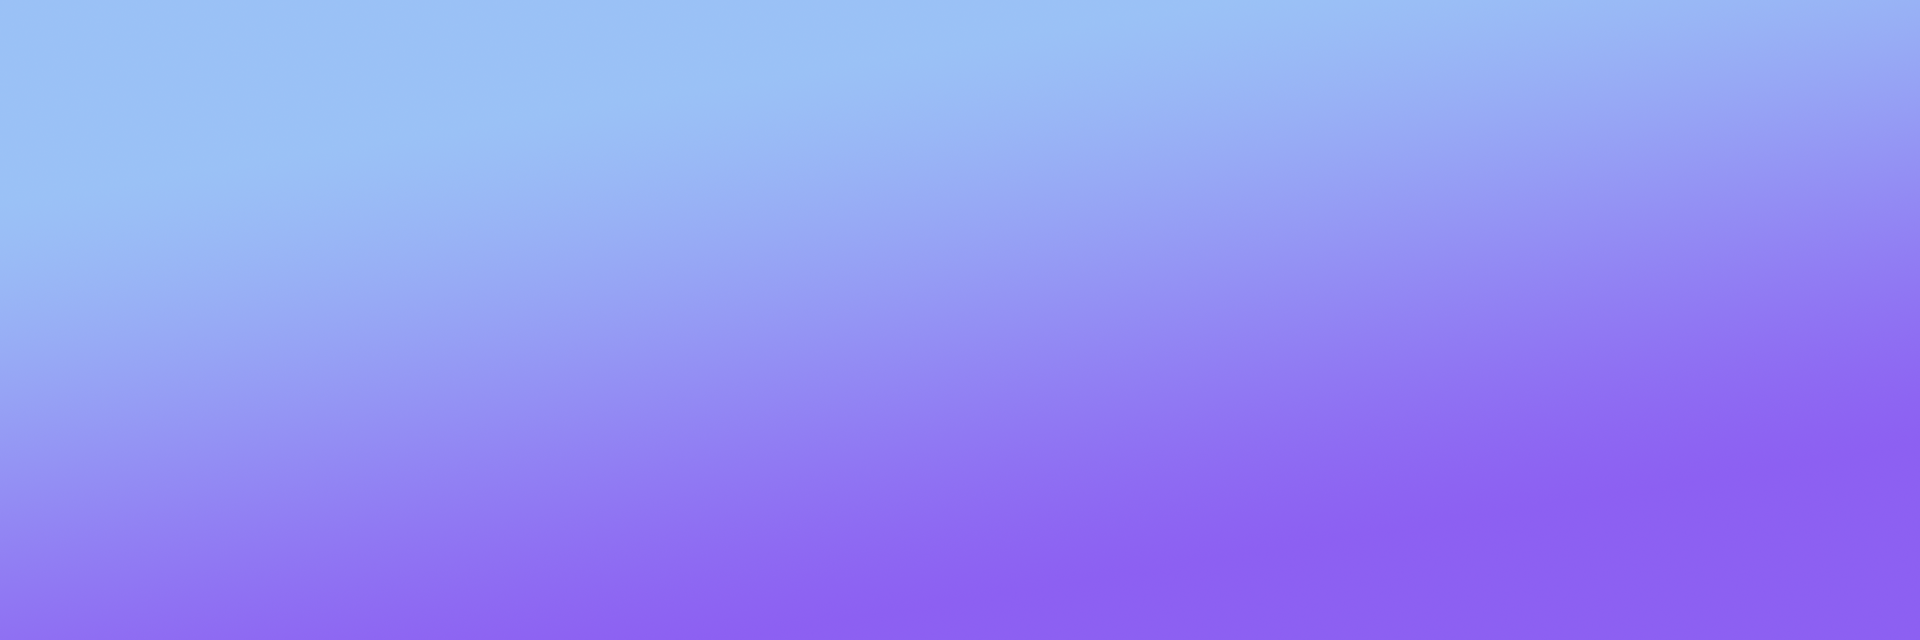
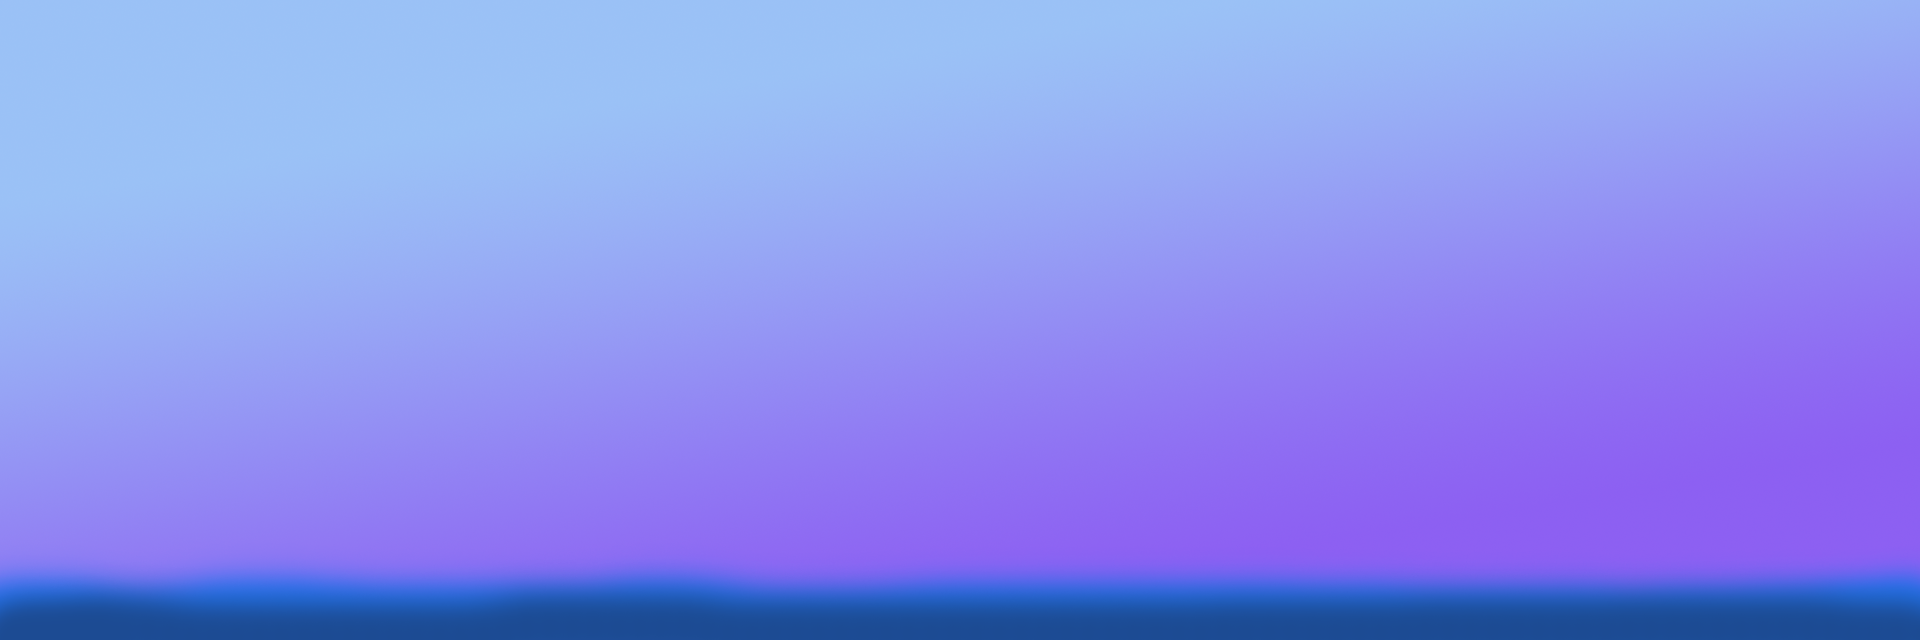
begin work on splash screen

Changed region(s): [[0.0, 0.875, 1.0, 1.0]]

diff --git a/client/view.cpp b/client/view.cpp
@@ -10,21 +10,35 @@
 
 void View::start()
 {
-    createMainLayer();
+    m_game_layer = cc::CCLayer::create();
+    
+    createGameLayerMenu();
+
+    m_scene->addChild(m_game_layer);
 
     m_in_touch = false;
 }
 
 void View::stop()
 {
-    m_scene->removeChild(m_mainLayer, true);
+    m_scene->removeChild(m_game_layer, true);
 }
 
 View::View()
 {
     m_scene = cc::CCScene::create();
+    m_scene->retain();
+    m_size = cc::CCDirector::sharedDirector()->getWinSize();
+}
 
-    cc::CCDirector::sharedDirector()->runWithScene(m_scene);
+View::~View()
+{
+    m_scene->release();
+}
+
+cc::CCScene * View::scene()
+{
+    return m_scene;
 }
 
 void View::reloadViewParams(cc::CCSize bg_size, pr::Vec2 world_size)
@@ -56,14 +70,9 @@ void View::reloadViewParams(cc::CCSize bg_size, pr::Vec2 world_size)
     
 }
 
-void View::createMainLayer()
+void View::createGameLayerMenu()
 {
     using namespace cocos2d;
-    
-    m_mainLayer = cc::CCLayer::create();
-    m_scene->addChild( m_mainLayer );
-    
-    m_size = cc::CCDirector::sharedDirector()->getWinSize();
     
     cc::CCMenuItemImage *pClose = cc::CCMenuItemImage::create(
                                                             res::picture("CloseNormal").c_str(),
@@ -84,7 +93,7 @@ void View::createMainLayer()
     cc::CCMenu* menu = cc::CCMenu::create(pClose, pReload, NULL);
     menu->setPosition( cc::CCPointZero );
     menu->setVisible(true);
-    m_mainLayer->addChild(menu, 100);
+    m_game_layer->addChild(menu, 100);
 }
 
 
@@ -145,7 +154,7 @@ float View::pixelToWorld(float pixel_size) const
 
 cc::CCLayer * View::gameLayer()
 {
-    return m_mainLayer;
+    return m_game_layer;
 }
 
 void View::onTouchEnd(ActionHandler::TouchPtr &touch)

diff --git a/client/splash_screen.cpp b/client/splash_screen.cpp
@@ -1,0 +1,40 @@
+#include "splash_screen.hpp"
+#include "master.hpp"
+#include "resource_utils.hpp"
+
+void SplashScreen::start()
+{
+    m_layer = cc::CCLayer::create();
+    
+    cc::CCSprite *logo = cc::CCSprite::create(res::picture("logo1").c_str());
+
+    m_layer->addChild(logo);
+
+    cc::CCSize size = cc::CCDirector::sharedDirector()->getWinSize();
+
+    logo->setPosition(ccp(size.width/2, size.height/2));
+
+    m_scene->addChild(m_layer);
+}
+
+void SplashScreen::stop()
+{
+    m_scene->removeChild(m_layer, true);
+}
+
+SplashScreen::SplashScreen()
+{
+    m_scene = cc::CCScene::create();
+    m_scene->retain();
+}
+
+SplashScreen::~SplashScreen()
+{
+    m_scene = cc::CCScene::create();
+    m_scene->release();
+}
+
+cc::CCScene * SplashScreen::scene()
+{
+    return m_scene;
+}

diff --git a/client/game_logic.cpp b/client/game_logic.cpp
@@ -1,11 +1,22 @@
 #include "game_logic.hpp"
 
+#include "splash_screen.hpp"
+#include "view.hpp"
 #include "level_manager.hpp"
 
 void GameLogic::start()
 {
-    master_t::subsystem<LevelManager>().loadLevel("");
-    
+	cc::CCDirector::sharedDirector()->runWithScene(master_t::subsystem<SplashScreen>().scene());
+
+	master_t::subsystem<LevelManager>().loadLevel("");
+
+
+	    
+//    cc::CCTransitionScene *transition_effect = cc::CCTransitionCrossFade::create(2.f, master_t::subsystem<View>().scene());//, cc::ccRED);
+//    cc::CCDirector::sharedDirector()->replaceScene(transition_effect);
+
+    cc::CCDirector::sharedDirector()->replaceScene(master_t::subsystem<View>().scene());
+
     master_t::subsystem<cd::SimpleAudioEngine>().resumeBackgroundMusic();
 }
 

diff --git a/client/view.hpp b/client/view.hpp
@@ -13,6 +13,9 @@ class View : public cc::CCObject, public subsystem_t
     
 public:
     View();
+    ~View();
+
+    cc::CCScene * scene();
 
     void menuExit(cocos2d::CCObject* pSender);
     void menuReloadLevel(cocos2d::CCObject* pSender);
@@ -39,13 +42,13 @@ public:
     pr::Vec2 currentCameraPosition() const;
 
 private:
-    void createMainLayer();
+    void createGameLayerMenu();
 
     void validateScale();
     
     bool m_in_touch;
     cc::CCScene *m_scene;
-    cc::CCLayer *m_mainLayer;
+    cc::CCLayer *m_game_layer;
     
     cc::CCSize m_size;
     

diff --git a/client/app_delegate.cpp b/client/app_delegate.cpp
@@ -11,6 +11,7 @@
 #include "action_handler.hpp"
 #include "game_logic.hpp"
 #include "level_manager.hpp"
+#include "splash_screen.hpp"
 
 AppDelegate::AppDelegate()
 {
@@ -59,6 +60,7 @@ bool AppDelegate::applicationDidFinishLaunching()
     m_master_ptr->add_managed_subsystem<Loop>();
     m_master_ptr->add_managed_subsystem<ActionHandler>();
     m_master_ptr->add_managed_subsystem<LevelManager>();
+    m_master_ptr->add_managed_subsystem<SplashScreen>();
 
     m_master_ptr->add_managed_subsystem<GameLogic>(); //should be last
 

diff --git a/client/splash_screen.hpp b/client/splash_screen.hpp
@@ -1,0 +1,24 @@
+#ifndef _AREKS_SPLASH_SCREEN_HPP_
+#define _AREKS_SPLASH_SCREEN_HPP_
+
+# include "defs.hpp"
+# include "subsystem.hpp"
+# include "primitives.hpp"
+
+class SplashScreen : public cc::CCObject, public subsystem_t
+{
+    virtual void start() override;
+    virtual void stop() override;
+    
+public:
+    SplashScreen();
+    ~SplashScreen();
+
+    cc::CCScene * scene();
+
+private:
+    cc::CCScene *m_scene;
+	cc::CCLayer *m_layer;
+};
+
+#endif
